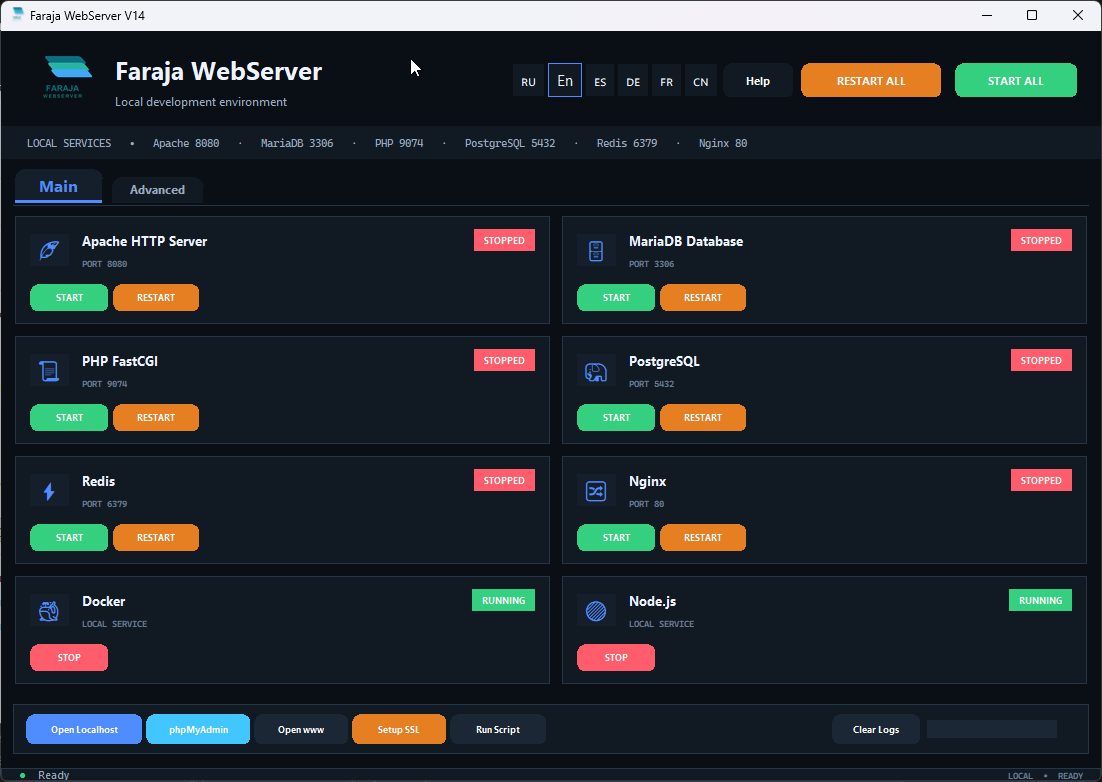
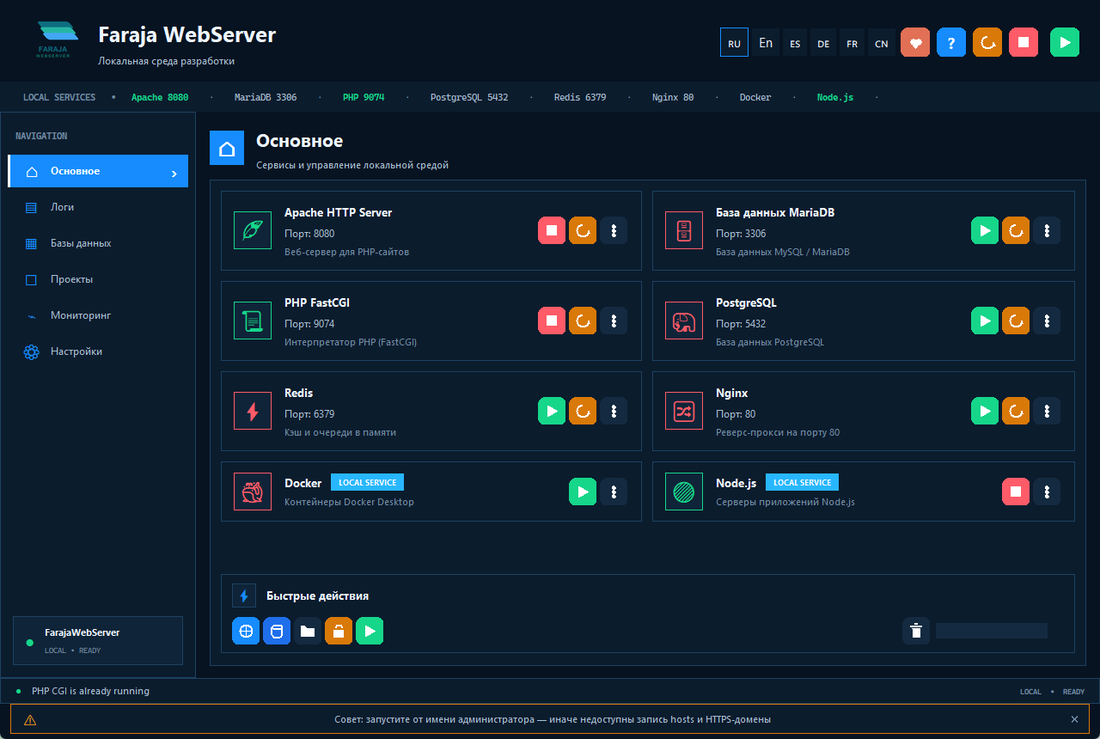
Fresh V16 screenshots (main/docker/node/db/health/settings) on site + README

diff --git a/docs/index.html b/docs/index.html
@@ -94,11 +94,12 @@ footer a{color:var(--accent);text-decoration:none}
 <div class="wrap"><section id="shots">
 <h2 data-i18n="shots_h">Скриншоты</h2><p class="sub" data-i18n="shots_sub">Так выглядит Faraja WebServer</p>
 <div class="shots">
-<figure><img src="screenshots/01-main.png" alt="main" loading="lazy"><figcaption data-i18n="cap1">Главная — карточки сервисов</figcaption></figure>
-<figure><img src="screenshots/02-logs.png" alt="logs" loading="lazy"><figcaption data-i18n="cap2">Логи установки и работы</figcaption></figure>
-<figure><img src="screenshots/03-settings.png" alt="settings" loading="lazy"><figcaption data-i18n="cap3">Модули, шрифт логов, установка</figcaption></figure>
-<figure><img src="screenshots/04-help.png" alt="help" loading="lazy"><figcaption data-i18n="cap4">Встроенная пошаговая помощь</figcaption></figure>
-<figure><img src="screenshots/05-tray.png" alt="tray" loading="lazy"><figcaption data-i18n="cap5">Меню системного трея</figcaption></figure>
+<figure><img src="screenshots/01-main.png" alt="main" loading="lazy"><figcaption data-i18n="cap1"></figcaption></figure>
+<figure><img src="screenshots/02-docker.png" alt="docker" loading="lazy"><figcaption data-i18n="cap2"></figcaption></figure>
+<figure><img src="screenshots/03-node.png" alt="node" loading="lazy"><figcaption data-i18n="cap3"></figcaption></figure>
+<figure><img src="screenshots/04-db.png" alt="db" loading="lazy"><figcaption data-i18n="cap4"></figcaption></figure>
+<figure><img src="screenshots/05-health.png" alt="health" loading="lazy"><figcaption data-i18n="cap5"></figcaption></figure>
+<figure><img src="screenshots/06-settings.png" alt="settings" loading="lazy"><figcaption data-i18n="cap6"></figcaption></figure>
 </div></section>
 
 <section id="features">
@@ -168,12 +169,12 @@ footer a{color:var(--accent);text-decoration:none}
 
 <script>
 const I18N={
-ru:{nav_shots:"Скриншоты",nav_feat:"Возможности",nav_svc:"Сервисы",nav_start:"Старт",nav_faq:"FAQ",nav_don:"Донаты",hero_a:"Локальный веб-сервер",hero_b:"за 5 минут",meaning:"«Faraja» на языке суахили означает «Комфорт»",hero_sub:"Apache, MariaDB, PHP, PostgreSQL, Redis, Nginx, Node.js, Docker и SSL — всё в одном portable EXE. Ничего не ставится в систему.",btn_dl:"⬇ Скачать для Windows",ver:"Windows 10/11 · ~20 МБ · бесплатно · Apache-2.0",shots_h:"Скриншоты",shots_sub:"Так выглядит Faraja WebServer",cap1:"Главная — карточки сервисов",cap2:"Логи установки и работы",cap3:"Модули, шрифт логов, установка",cap4:"Встроенная пошаговая помощь",cap5:"Меню системного трея",feat_h:"Возможности",feat_sub:"Полноценная среда разработки из одного файла",f1h:"Всё в одном окне",f1p:"Карточки сервисов с кнопками Старт / Стоп / Рестарт, общий запуск одной кнопкой, трей.",f2h:"Базы данных",f2p:"MariaDB + PostgreSQL, встроенный SQL-редактор и phpMyAdmin из коробки.",f3h:"Локальный HTTPS",f3p:"Доверенный SSL-сертификат для localhost в один клик (mkcert).",f4h:"Мультисайты",f4p:"Добавляйте сайты, открывайте их в браузере одной кнопкой.",f5h:"Редактор кода",f5p:"Подсветка PHP, HTML, CSS, JS, TS, Python, 8 тем, мини-карта кода.",f6h:"6 языков",f6p:"Русский, English, Español, Deutsch, Français, 中文 — переключение флажками.",svc_h:"Сервисы и порты",svc_sub:"Порты меняются в config/server.json",th1:"Сервис",th2:"Назначение",th3:"Порт",p_apache:"Веб-сервер (HTTP)",p_maria:"База данных (root без пароля)",p_php:"Серверный язык, FastCGI",p_pg:"Продвинутая СУБД",p_redis:"Хранилище в памяти",p_nginx:"Обратный прокси",p_node:"JS / TS скрипты",p_dock:"Статус и контейнеры",start_h:"Быстрый старт",start_sub:"От скачивания до своего сайта — пять шагов",s1:"<b>Скачайте и запустите</b> <code>FarajaWebServer.exe</code>. При первом запуске отметьте нужные компоненты и нажмите «Установить».",s2:"<b>Нажмите «ЗАПУСТИТЬ ВСЕ»</b> — все бейджи сервисов станут зелёными.",s3:"<b>Откройте</b> <code>http://127.0.0.1:8080/</code> в браузере — стартовая страница.",s4:"<b>Положите проект в папку</b> <code>www/</code> — он доступен по адресу <code>http://127.0.0.1:8080/mysite/</code>.",s5:"<b>Базы данных</b> — вкладка SQL (root без пароля) или кнопка phpMyAdmin.",faq_h:"Вопросы и ответы",faq_sub:"Типовые ситуации",q1:"Порт занят — что делать?",a1:"Ошибка назовёт процесс и PID. Закройте чужую программу либо смените порт в config/server.json.",q2:"PHP-страница пустая?",a2:"Убедитесь, что запущены и Apache, и PHP. Подробности — во вкладках ошибок.",q3:"Нужен HTTPS?",a3:"Нажмите «Настроить SSL», перезапустите Nginx — сайт откроется по https://localhost/ без предупреждений.",q4:"Куда класть свои файлы?",a4:"В папку www/ рядом с программой. Каждую подпапку можно оформить как сайт.",q5:"Это бесплатно?",a5:"Да. Лицензия Apache-2.0 — используйте и изменяйте свободно.",don_h:"Поддержать проект",don_sub:"Если Faraja WebServer полезен — поддержите разработку. Спасибо!",copy:"Копировать",copied:"Скопировано ✓",foot:"Faraja WebServer · Лицензия Apache-2.0",foot_dl:"Скачать",nav_pro:"PRO",btn_pro:"⬇ PRO-версия",pro_h:"PRO-версия",pro_sub:"Расширенные возможности PRO-сборки",pro1:"Сайт → Nginx-блок + Apache VirtualHost + hosts + SSL.",pro2:"Серверы проектов с роутами и трекингом процессов.",pro3h:"Версии",pro3:"PHP 8.2–8.4, Node.js 20–24, Python 3.11–3.13.",pro4h:"Менеджер БД",pro4:"Бэкапы, пользователи, восстановление.",pro5:"Compose, образы, сети, тома.",pro6h:"Нагрузка",pro6:"Тесты отдельным процессом, Auto, графики."},
-en:{nav_shots:"Screenshots",nav_feat:"Features",nav_svc:"Services",nav_start:"Start",nav_faq:"FAQ",nav_don:"Donate",hero_a:"Local web server",hero_b:"in 5 minutes",meaning:"“Faraja” means “Comfort” in Swahili",hero_sub:"Apache, MariaDB, PHP, PostgreSQL, Redis, Nginx, Node.js, Docker and SSL — all in one portable EXE. Nothing is installed into the system.",btn_dl:"⬇ Download for Windows",ver:"Windows 10/11 · ~20 MB · free · Apache-2.0",shots_h:"Screenshots",shots_sub:"This is what Faraja WebServer looks like",cap1:"Main — service cards",cap2:"Install and runtime logs",cap3:"Modules, log font, installation",cap4:"Built-in step-by-step help",cap5:"System tray menu",feat_h:"Features",feat_sub:"A full dev environment from a single file",f1h:"Everything in one window",f1p:"Service cards with Start / Stop / Restart, one-click launch of everything, tray.",f2h:"Databases",f2p:"MariaDB + PostgreSQL, built-in SQL editor and phpMyAdmin out of the box.",f3h:"Local HTTPS",f3p:"Trusted SSL certificate for localhost in one click (mkcert).",f4h:"Multi-site",f4p:"Add sites and open them in the browser with one click.",f5h:"Code editor",f5p:"PHP, HTML, CSS, JS, TS, Python highlighting, 8 themes, code minimap.",f6h:"6 languages",f6p:"Русский, English, Español, Deutsch, Français, 中文 — switch with flags.",svc_h:"Services and ports",svc_sub:"Ports are changed in config/server.json",th1:"Service",th2:"Purpose",th3:"Port",p_apache:"Web server (HTTP)",p_maria:"Database (root, no password)",p_php:"Server language, FastCGI",p_pg:"Advanced DBMS",p_redis:"In-memory store",p_nginx:"Reverse proxy",p_node:"JS / TS scripts",p_dock:"Status and containers",start_h:"Quick start",start_sub:"From download to your site in five steps",s1:"<b>Download and run</b> <code>FarajaWebServer.exe</code>. On first launch tick the components and press “Install”.",s2:"<b>Press “START ALL”</b> — all service badges turn green.",s3:"<b>Open</b> <code>http://127.0.0.1:8080/</code> in your browser — the welcome page.",s4:"<b>Put your project into</b> <code>www/</code> — it is served at <code>http://127.0.0.1:8080/mysite/</code>.",s5:"<b>Databases</b> — the SQL tab (root, no password) or the phpMyAdmin button.",faq_h:"FAQ",faq_sub:"Common situations",q1:"Port is busy — what to do?",a1:"The error names the process and PID. Close that program or change the port in config/server.json.",q2:"Blank PHP page?",a2:"Make sure both Apache and PHP are running. Details are in the error tabs.",q3:"Need HTTPS?",a3:"Press “Setup SSL”, restart Nginx — the site opens at https://localhost/ with no warnings.",q4:"Where to put my files?",a4:"Into the www/ folder next to the program. Any subfolder can become a site.",q5:"Is it free?",a5:"Yes. Apache-2.0 license — use and modify freely.",don_h:"Support the project",don_sub:"If Faraja WebServer is useful — please support its development. Thank you!",copy:"Copy",copied:"Copied ✓",foot:"Faraja WebServer · Apache-2.0 License",foot_dl:"Download",nav_pro:"PRO",btn_pro:"⬇ PRO build",pro_h:"PRO edition",pro_sub:"Advanced features of the PRO build",pro1:"Site → Nginx block + Apache VirtualHost + hosts + SSL.",pro2:"Project servers with routes and process tracking.",pro3h:"Versions",pro3:"PHP 8.2–8.4, Node.js 20–24, Python 3.11–3.13.",pro4h:"DB manager",pro4:"Backups, users, restore.",pro5:"Compose, images, networks, volumes.",pro6h:"Load",pro6:"Separate-process tests, Auto, charts."},
-es:{nav_shots:"Capturas",nav_feat:"Funciones",nav_svc:"Servicios",nav_start:"Inicio",nav_faq:"FAQ",nav_don:"Donar",hero_a:"Servidor web local",hero_b:"en 5 minutos",meaning:"«Faraja» significa «Comodidad» en suajili",hero_sub:"Apache, MariaDB, PHP, PostgreSQL, Redis, Nginx, Node.js, Docker y SSL — todo en un solo EXE portable. Nada se instala en el sistema.",btn_dl:"⬇ Descargar para Windows",ver:"Windows 10/11 · ~20 MB · gratis · Apache-2.0",shots_h:"Capturas",shots_sub:"Así es Faraja WebServer",cap1:"Principal — tarjetas de servicios",cap2:"Registros de instalación",cap3:"Módulos y ajustes",cap4:"Ayuda paso a paso",cap5:"Menú de la bandeja",feat_h:"Funciones",feat_sub:"Un entorno completo en un solo archivo",f1h:"Todo en una ventana",f1p:"Tarjetas con Iniciar / Detener / Reiniciar, inicio total con un clic, bandeja.",f2h:"Bases de datos",f2p:"MariaDB + PostgreSQL, editor SQL y phpMyAdmin incluidos.",f3h:"HTTPS local",f3p:"Certificado SSL de confianza para localhost en un clic (mkcert).",f4h:"Multisitio",f4p:"Agregue sitios y ábralos en el navegador con un clic.",f5h:"Editor de código",f5p:"Resaltado PHP, HTML, CSS, JS, TS, Python, 8 temas, minimapa.",f6h:"6 idiomas",f6p:"Русский, English, Español, Deutsch, Français, 中文 — con banderas.",svc_h:"Servicios y puertos",svc_sub:"Los puertos se cambian en config/server.json",th1:"Servicio",th2:"Propósito",th3:"Puerto",p_apache:"Servidor web (HTTP)",p_maria:"Base de datos (root sin clave)",p_php:"Lenguaje de servidor, FastCGI",p_pg:"SGBD avanzado",p_redis:"Almacén en memoria",p_nginx:"Proxy inverso",p_node:"Scripts JS / TS",p_dock:"Estado y contenedores",start_h:"Inicio rápido",start_sub:"De la descarga a su sitio en cinco pasos",s1:"<b>Descargue y ejecute</b> <code>FarajaWebServer.exe</code>. Marque componentes y pulse «Instalar».",s2:"<b>Pulse «INICIAR TODO»</b> — todo en verde.",s3:"<b>Abra</b> <code>http://127.0.0.1:8080/</code> en el navegador.",s4:"<b>Copie su proyecto a</b> <code>www/</code> — disponible en <code>http://127.0.0.1:8080/mysite/</code>.",s5:"<b>Bases de datos</b> — pestaña SQL (root sin clave) o phpMyAdmin.",faq_h:"Preguntas",faq_sub:"Situaciones típicas",q1:"¿Puerto ocupado?",a1:"El error indica el proceso y el PID. Cierre ese programa o cambie el puerto.",q2:"¿Página PHP en blanco?",a2:"Verifique que Apache y PHP estén en ejecución.",q3:"¿Necesita HTTPS?",a3:"Pulse «Configurar SSL», reinicie Nginx — https://localhost/ sin avisos.",q4:"¿Dónde pongo mis archivos?",a4:"En la carpeta www/ junto al programa.",q5:"¿Es gratis?",a5:"Sí. Licencia Apache-2.0 — úselo libremente.",don_h:"Apoyar el proyecto",don_sub:"Si Faraja WebServer le es útil — apoye su desarrollo. ¡Gracias!",copy:"Copiar",copied:"Copiado ✓",foot:"Faraja WebServer · Licencia Apache-2.0",foot_dl:"Descargar",nav_pro:"PRO",btn_pro:"⬇ Edición PRO",pro_h:"Edición PRO",pro_sub:"Funciones avanzadas de la edición PRO",pro1:"Sitio → bloque Nginx + VirtualHost Apache + hosts + SSL.",pro2:"Servidores de proyectos con rutas y seguimiento.",pro3h:"Versiones",pro3:"PHP 8.2–8.4, Node.js 20–24, Python 3.11–3.13.",pro4h:"Gestor BD",pro4:"Respaldos, usuarios, restauración.",pro5:"Compose, imágenes, redes, volúmenes.",pro6h:"Carga",pro6:"Pruebas en proceso aparte, Auto, gráficos."},
-de:{nav_shots:"Bilder",nav_feat:"Funktionen",nav_svc:"Dienste",nav_start:"Start",nav_faq:"FAQ",nav_don:"Spenden",hero_a:"Lokaler Webserver",hero_b:"in 5 Minuten",meaning:"„Faraja“ bedeutet auf Swahili „Komfort“",hero_sub:"Apache, MariaDB, PHP, PostgreSQL, Redis, Nginx, Node.js, Docker und SSL — alles in einer portablen EXE. Nichts wird installiert.",btn_dl:"⬇ Für Windows laden",ver:"Windows 10/11 · ~20 MB · kostenlos · Apache-2.0",shots_h:"Bilder",shots_sub:"So sieht Faraja WebServer aus",cap1:"Haupt — Dienst-Karten",cap2:"Installations-Logs",cap3:"Module und Einstellungen",cap4:"Schritt-für-Schritt-Hilfe",cap5:"Taskleisten-Menü",feat_h:"Funktionen",feat_sub:"Komplette Umgebung aus einer Datei",f1h:"Alles in einem Fenster",f1p:"Dienst-Karten mit Starten / Stoppen / Neustart, Ein-Klick-Start, Tray.",f2h:"Datenbanken",f2p:"MariaDB + PostgreSQL, SQL-Editor und phpMyAdmin an Bord.",f3h:"Lokales HTTPS",f3p:"Vertrauenswürdiges SSL-Zertifikat für localhost mit einem Klick (mkcert).",f4h:"Multisite",f4p:"Sites hinzufügen und mit einem Klick im Browser öffnen.",f5h:"Code-Editor",f5p:"Highlighting für PHP, HTML, CSS, JS, TS, Python, 8 Themes, Minimap.",f6h:"6 Sprachen",f6p:"Русский, English, Español, Deutsch, Français, 中文 — per Flaggen.",svc_h:"Dienste und Ports",svc_sub:"Ports in config/server.json ändern",th1:"Dienst",th2:"Zweck",th3:"Port",p_apache:"Webserver (HTTP)",p_maria:"Datenbank (root ohne Passwort)",p_php:"Serversprache, FastCGI",p_pg:"Erweitertes DBMS",p_redis:"In-Memory-Speicher",p_nginx:"Reverse-Proxy",p_node:"JS- / TS-Skripte",p_dock:"Status und Container",start_h:"Schnellstart",start_sub:"Vom Download zur eigenen Seite in fünf Schritten",s1:"<b>Laden und starten Sie</b> <code>FarajaWebServer.exe</code>. Komponenten wählen, «Installieren».",s2:"<b>«ALLE STARTEN» drücken</b> — alles wird grün.",s3:"<b>Öffnen Sie</b> <code>http://127.0.0.1:8080/</code> im Browser.",s4:"<b>Projekt nach</b> <code>www/</code> kopieren — erreichbar unter <code>http://127.0.0.1:8080/mysite/</code>.",s5:"<b>Datenbanken</b> — SQL-Reiter (root ohne Passwort) oder phpMyAdmin.",faq_h:"Fragen",faq_sub:"Typische Situationen",q1:"Port belegt?",a1:"Der Fehler nennt Prozess und PID. Fremdes Programm schließen oder Port ändern.",q2:"Leere PHP-Seite?",a2:"Apache und PHP müssen beide laufen.",q3:"HTTPS nötig?",a3:"«SSL einrichten», Nginx neu starten — https://localhost/ ohne Warnungen.",q4:"Wohin mit Dateien?",a4:"In den Ordner www/ neben dem Programm.",q5:"Kostenlos?",a5:"Ja. Apache-2.0-Lizenz — frei verwenden.",don_h:"Projekt unterstützen",don_sub:"Wenn Faraja WebServer nützt — bitte die Entwicklung unterstützen. Danke!",copy:"Kopieren",copied:"Kopiert ✓",foot:"Faraja WebServer · Apache-2.0-Lizenz",foot_dl:"Laden",nav_pro:"PRO",btn_pro:"⬇ PRO-Edition",pro_h:"PRO-Edition",pro_sub:"Erweiterte Funktionen der PRO-Edition",pro1:"Site → Nginx-Block + Apache VirtualHost + Hosts + SSL.",pro2:"Projekt-Server mit Routen und Tracking.",pro3h:"Versionen",pro3:"PHP 8.2–8.4, Node.js 20–24, Python 3.11–3.13.",pro4h:"DB-Manager",pro4:"Backups, Benutzer, Restore.",pro5:"Compose, Images, Netzwerke, Volumes.",pro6h:"Last",pro6:"Tests in eigenem Prozess, Auto, Charts."},
-fr:{nav_shots:"Captures",nav_feat:"Fonctions",nav_svc:"Services",nav_start:"Départ",nav_faq:"FAQ",nav_don:"Soutenir",hero_a:"Serveur web local",hero_b:"en 5 minutes",meaning:"« Faraja » signifie « Confort » en swahili",hero_sub:"Apache, MariaDB, PHP, PostgreSQL, Redis, Nginx, Node.js, Docker et SSL — le tout dans un seul EXE portable. Rien n'est installé.",btn_dl:"⬇ Télécharger pour Windows",ver:"Windows 10/11 · ~20 Mo · gratuit · Apache-2.0",shots_h:"Captures",shots_sub:"Voici Faraja WebServer",cap1:"Principal — cartes des services",cap2:"Journaux d'installation",cap3:"Modules et paramètres",cap4:"Aide pas à pas",cap5:"Menu de la zone de notification",feat_h:"Fonctions",feat_sub:"Un environnement complet en un fichier",f1h:"Tout dans une fenêtre",f1p:"Cartes avec Démarrer / Arrêter / Redémarrer, lancement global en un clic.",f2h:"Bases de données",f2p:"MariaDB + PostgreSQL, éditeur SQL et phpMyAdmin inclus.",f3h:"HTTPS local",f3p:"Certificat SSL de confiance pour localhost en un clic (mkcert).",f4h:"Multisite",f4p:"Ajoutez des sites, ouvrez-les en un clic.",f5h:"Éditeur de code",f5p:"Coloration PHP, HTML, CSS, JS, TS, Python, 8 thèmes, minimap.",f6h:"6 langues",f6p:"Русский, English, Español, Deutsch, Français, 中文 — par drapeaux.",svc_h:"Services et ports",svc_sub:"Ports modifiables dans config/server.json",th1:"Service",th2:"Rôle",th3:"Port",p_apache:"Serveur web (HTTP)",p_maria:"Base de données (root sans mot de passe)",p_php:"Langage serveur, FastCGI",p_pg:"SGBD avancé",p_redis:"Stockage en mémoire",p_nginx:"Proxy inverse",p_node:"Scripts JS / TS",p_dock:"Statut et conteneurs",start_h:"Démarrage rapide",start_sub:"Du téléchargement au site en cinq étapes",s1:"<b>Téléchargez et lancez</b> <code>FarajaWebServer.exe</code>. Cochez les composants, « Installer ».",s2:"<b>Cliquez « TOUT DÉMARRER »</b> — tout passe au vert.",s3:"<b>Ouvrez</b> <code>http://127.0.0.1:8080/</code> dans le navigateur.",s4:"<b>Copiez votre projet dans</b> <code>www/</code> — servi sur <code>http://127.0.0.1:8080/monsite/</code>.",s5:"<b>Bases de données</b> — onglet SQL (root sans mot de passe) ou phpMyAdmin.",faq_h:"Questions",faq_sub:"Situations courantes",q1:"Port occupé ?",a1:"L'erreur nomme le processus et le PID. Fermez-le ou changez le port.",q2:"Page PHP vide ?",a2:"Apache et PHP doivent tous deux tourner.",q3:"HTTPS requis ?",a3:"« Configurer SSL », redémarrez Nginx — https://localhost/ sans alertes.",q4:"Où mettre mes fichiers ?",a4:"Dans le dossier www/ à côté du programme.",q5:"Gratuit ?",a5:"Oui. Licence Apache-2.0 — usage libre.",don_h:"Soutenir le projet",don_sub:"Si Faraja WebServer vous est utile — soutenez son développement. Merci !",copy:"Copier",copied:"Copié ✓",foot:"Faraja WebServer · Licence Apache-2.0",foot_dl:"Télécharger",nav_pro:"PRO",btn_pro:"⬇ Édition PRO",pro_h:"Édition PRO",pro_sub:"Fonctions avancées de l'édition PRO",pro1:"Site → bloc Nginx + VirtualHost Apache + hosts + SSL.",pro2:"Serveurs de projets avec routes et suivi.",pro3h:"Versions",pro3:"PHP 8.2–8.4, Node.js 20–24, Python 3.11–3.13.",pro4h:"Gestion BD",pro4:"Sauvegardes, utilisateurs, restauration.",pro5:"Compose, images, réseaux, volumes.",pro6h:"Charge",pro6:"Tests en processus séparé, Auto, graphiques."},
-zh:{nav_shots:"截图",nav_feat:"功能",nav_svc:"服务",nav_start:"入门",nav_faq:"问答",nav_don:"捐赠",hero_a:"本地 Web 服务器",hero_b:"5 分钟搞定",meaning:"“Faraja”在斯瓦希里语中意为“舒适”",hero_sub:"Apache、MariaDB、PHP、PostgreSQL、Redis、Nginx、Node.js、Docker 和 SSL——集于单个便携 EXE。系统零安装。",btn_dl:"⬇ 下载 Windows 版",ver:"Windows 10/11 · 约 20 MB · 免费 · Apache-2.0",shots_h:"截图",shots_sub:"Faraja WebServer 的样子",cap1:"主页——服务卡片",cap2:"安装与运行日志",cap3:"模块、日志字体、安装",cap4:"内置分步帮助",cap5:"系统托盘菜单",feat_h:"功能",feat_sub:"单个文件，完整开发环境",f1h:"一窗搞定",f1p:"服务卡片含启动 / 停止 / 重启，一键启动全部，托盘。",f2h:"数据库",f2p:"MariaDB + PostgreSQL，内置 SQL 编辑器和 phpMyAdmin。",f3h:"本地 HTTPS",f3p:"一键获取受信任的 localhost SSL 证书（mkcert）。",f4h:"多站点",f4p:"添加站点，一键在浏览器中打开。",f5h:"代码编辑器",f5p:"PHP、HTML、CSS、JS、TS、Python 高亮，8 套主题，代码小地图。",f6h:"6 种语言",f6p:"Русский、English、Español、Deutsch、Français、中文——旗帜切换。",svc_h:"服务与端口",svc_sub:"端口可在 config/server.json 中修改",th1:"服务",th2:"用途",th3:"端口",p_apache:"Web 服务器（HTTP）",p_maria:"数据库（root，无密码）",p_php:"服务端语言，FastCGI",p_pg:"高级数据库",p_redis:"内存存储",p_nginx:"反向代理",p_node:"JS / TS 脚本",p_dock:"状态与容器",start_h:"快速入门",start_sub:"五步从下载到自己的站点",s1:"<b>下载并运行</b> <code>FarajaWebServer.exe</code>。首次启动勾选组件并点击“安装”。",s2:"<b>点击“全部启动”</b>——所有徽章变绿。",s3:"<b>在浏览器中打开</b> <code>http://127.0.0.1:8080/</code>——欢迎页。",s4:"<b>将项目放入</b> <code>www/</code>——通过 <code>http://127.0.0.1:8080/mysite/</code> 访问。",s5:"<b>数据库</b>——SQL 选项卡（root 无密码）或 phpMyAdmin。",faq_h:"问答",faq_sub:"常见情况",q1:"端口被占用？",a1:"错误会显示进程名和 PID。关闭该程序或修改端口。",q2:"PHP 页面空白？",a2:"确认 Apache 和 PHP 都在运行。",q3:"需要 HTTPS？",a3:"点击“设置 SSL”，重启 Nginx——https://localhost/ 无警告。",q4:"文件放哪里？",a4:"放在程序旁的 www/ 文件夹中。",q5:"免费吗？",a5:"是。Apache-2.0 许可证——自由使用。",don_h:"支持项目",don_sub:"如果 Faraja WebServer 对您有用，请支持它的开发。谢谢！",copy:"复制",copied:"已复制 ✓",foot:"Faraja WebServer · Apache-2.0 许可证",foot_dl:"下载",nav_pro:"PRO",btn_pro:"⬇ PRO 版本",pro_h:"PRO 版本",pro_sub:"PRO 构建的高级功能",pro1:"站点 → Nginx 块 + Apache 虚拟主机 + hosts + SSL。",pro2:"带路由和进程跟踪的项目服务器。",pro3h:"版本",pro3:"PHP 8.2–8.4、Node.js 20–24、Python 3.11–3.13。",pro4h:"数据库管理",pro4:"备份、用户、恢复。",pro5:"Compose、镜像、网络、卷。",pro6h:"负载",pro6:"独立进程测试、Auto、图表。"}};
+ru:{nav_shots:"Скриншоты",nav_feat:"Возможности",nav_svc:"Сервисы",nav_start:"Старт",nav_faq:"FAQ",nav_don:"Донаты",hero_a:"Локальный веб-сервер",hero_b:"за 5 минут",meaning:"«Faraja» на языке суахили означает «Комфорт»",hero_sub:"Apache, MariaDB, PHP, PostgreSQL, Redis, Nginx, Node.js, Docker и SSL — всё в одном portable EXE. Ничего не ставится в систему.",btn_dl:"⬇ Скачать для Windows",ver:"Windows 10/11 · ~36 МБ · бесплатно · Apache-2.0",shots_h:"Скриншоты",shots_sub:"Так выглядит Faraja WebServer",cap1:"Главная — карточки сервисов",cap2:"Docker — контейнеры",cap3:"Серверы Node.js",cap4:"Базы данных",cap5:"Диагностика",cap6:"Настройки",feat_h:"Возможности",feat_sub:"Полноценная среда разработки из одного файла",f1h:"Всё в одном окне",f1p:"Карточки сервисов с кнопками Старт / Стоп / Рестарт, общий запуск одной кнопкой, трей.",f2h:"Базы данных",f2p:"MariaDB + PostgreSQL, встроенный SQL-редактор и phpMyAdmin из коробки.",f3h:"Локальный HTTPS",f3p:"Доверенный SSL-сертификат для localhost в один клик (mkcert).",f4h:"Мультисайты",f4p:"Добавляйте сайты, открывайте их в браузере одной кнопкой.",f5h:"Редактор кода",f5p:"Подсветка PHP, HTML, CSS, JS, TS, Python, 8 тем, мини-карта кода.",f6h:"6 языков",f6p:"Русский, English, Español, Deutsch, Français, 中文 — переключение флажками.",svc_h:"Сервисы и порты",svc_sub:"Порты меняются в config/server.json",th1:"Сервис",th2:"Назначение",th3:"Порт",p_apache:"Веб-сервер (HTTP)",p_maria:"База данных (root без пароля)",p_php:"Серверный язык, FastCGI",p_pg:"Продвинутая СУБД",p_redis:"Хранилище в памяти",p_nginx:"Обратный прокси",p_node:"JS / TS скрипты",p_dock:"Статус и контейнеры",start_h:"Быстрый старт",start_sub:"От скачивания до своего сайта — пять шагов",s1:"<b>Скачайте и запустите</b> <code>FarajaWebServer.exe</code>. При первом запуске отметьте нужные компоненты и нажмите «Установить».",s2:"<b>Нажмите «ЗАПУСТИТЬ ВСЕ»</b> — все бейджи сервисов станут зелёными.",s3:"<b>Откройте</b> <code>http://127.0.0.1:8080/</code> в браузере — стартовая страница.",s4:"<b>Положите проект в папку</b> <code>www/</code> — он доступен по адресу <code>http://127.0.0.1:8080/mysite/</code>.",s5:"<b>Базы данных</b> — вкладка SQL (root без пароля) или кнопка phpMyAdmin.",faq_h:"Вопросы и ответы",faq_sub:"Типовые ситуации",q1:"Порт занят — что делать?",a1:"Ошибка назовёт процесс и PID. Закройте чужую программу либо смените порт в config/server.json.",q2:"PHP-страница пустая?",a2:"Убедитесь, что запущены и Apache, и PHP. Подробности — во вкладках ошибок.",q3:"Нужен HTTPS?",a3:"Нажмите «Настроить SSL», перезапустите Nginx — сайт откроется по https://localhost/ без предупреждений.",q4:"Куда класть свои файлы?",a4:"В папку www/ рядом с программой. Каждую подпапку можно оформить как сайт.",q5:"Это бесплатно?",a5:"Да. Лицензия Apache-2.0 — используйте и изменяйте свободно.",don_h:"Поддержать проект",don_sub:"Если Faraja WebServer полезен — поддержите разработку. Спасибо!",copy:"Копировать",copied:"Скопировано ✓",foot:"Faraja WebServer · Лицензия Apache-2.0",foot_dl:"Скачать",nav_pro:"PRO",btn_pro:"⬇ PRO-версия",pro_h:"PRO-версия",pro_sub:"Расширенные возможности PRO-сборки",pro1:"Сайт → Nginx-блок + Apache VirtualHost + hosts + SSL.",pro2:"Серверы проектов с роутами и трекингом процессов.",pro3h:"Версии",pro3:"PHP 8.2–8.4, Node.js 20–24, Python 3.11–3.13.",pro4h:"Менеджер БД",pro4:"Бэкапы, пользователи, восстановление.",pro5:"Compose, образы, сети, тома.",pro6h:"Нагрузка",pro6:"Тесты отдельным процессом, Auto, графики."},
+en:{nav_shots:"Screenshots",nav_feat:"Features",nav_svc:"Services",nav_start:"Start",nav_faq:"FAQ",nav_don:"Donate",hero_a:"Local web server",hero_b:"in 5 minutes",meaning:"“Faraja” means “Comfort” in Swahili",hero_sub:"Apache, MariaDB, PHP, PostgreSQL, Redis, Nginx, Node.js, Docker and SSL — all in one portable EXE. Nothing is installed into the system.",btn_dl:"⬇ Download for Windows",ver:"Windows 10/11 · ~36 MB · free · Apache-2.0",shots_h:"Screenshots",shots_sub:"This is what Faraja WebServer looks like",cap1:"Main — service cards",cap2:"Docker — containers",cap3:"Node.js servers",cap4:"Databases",cap5:"Health diagnostics",cap6:"Settings",feat_h:"Features",feat_sub:"A full dev environment from a single file",f1h:"Everything in one window",f1p:"Service cards with Start / Stop / Restart, one-click launch of everything, tray.",f2h:"Databases",f2p:"MariaDB + PostgreSQL, built-in SQL editor and phpMyAdmin out of the box.",f3h:"Local HTTPS",f3p:"Trusted SSL certificate for localhost in one click (mkcert).",f4h:"Multi-site",f4p:"Add sites and open them in the browser with one click.",f5h:"Code editor",f5p:"PHP, HTML, CSS, JS, TS, Python highlighting, 8 themes, code minimap.",f6h:"6 languages",f6p:"Русский, English, Español, Deutsch, Français, 中文 — switch with flags.",svc_h:"Services and ports",svc_sub:"Ports are changed in config/server.json",th1:"Service",th2:"Purpose",th3:"Port",p_apache:"Web server (HTTP)",p_maria:"Database (root, no password)",p_php:"Server language, FastCGI",p_pg:"Advanced DBMS",p_redis:"In-memory store",p_nginx:"Reverse proxy",p_node:"JS / TS scripts",p_dock:"Status and containers",start_h:"Quick start",start_sub:"From download to your site in five steps",s1:"<b>Download and run</b> <code>FarajaWebServer.exe</code>. On first launch tick the components and press “Install”.",s2:"<b>Press “START ALL”</b> — all service badges turn green.",s3:"<b>Open</b> <code>http://127.0.0.1:8080/</code> in your browser — the welcome page.",s4:"<b>Put your project into</b> <code>www/</code> — it is served at <code>http://127.0.0.1:8080/mysite/</code>.",s5:"<b>Databases</b> — the SQL tab (root, no password) or the phpMyAdmin button.",faq_h:"FAQ",faq_sub:"Common situations",q1:"Port is busy — what to do?",a1:"The error names the process and PID. Close that program or change the port in config/server.json.",q2:"Blank PHP page?",a2:"Make sure both Apache and PHP are running. Details are in the error tabs.",q3:"Need HTTPS?",a3:"Press “Setup SSL”, restart Nginx — the site opens at https://localhost/ with no warnings.",q4:"Where to put my files?",a4:"Into the www/ folder next to the program. Any subfolder can become a site.",q5:"Is it free?",a5:"Yes. Apache-2.0 license — use and modify freely.",don_h:"Support the project",don_sub:"If Faraja WebServer is useful — please support its development. Thank you!",copy:"Copy",copied:"Copied ✓",foot:"Faraja WebServer · Apache-2.0 License",foot_dl:"Download",nav_pro:"PRO",btn_pro:"⬇ PRO build",pro_h:"PRO edition",pro_sub:"Advanced features of the PRO build",pro1:"Site → Nginx block + Apache VirtualHost + hosts + SSL.",pro2:"Project servers with routes and process tracking.",pro3h:"Versions",pro3:"PHP 8.2–8.4, Node.js 20–24, Python 3.11–3.13.",pro4h:"DB manager",pro4:"Backups, users, restore.",pro5:"Compose, images, networks, volumes.",pro6h:"Load",pro6:"Separate-process tests, Auto, charts."},
+es:{nav_shots:"Capturas",nav_feat:"Funciones",nav_svc:"Servicios",nav_start:"Inicio",nav_faq:"FAQ",nav_don:"Donar",hero_a:"Servidor web local",hero_b:"en 5 minutos",meaning:"«Faraja» significa «Comodidad» en suajili",hero_sub:"Apache, MariaDB, PHP, PostgreSQL, Redis, Nginx, Node.js, Docker y SSL — todo en un solo EXE portable. Nada se instala en el sistema.",btn_dl:"⬇ Descargar para Windows",ver:"Windows 10/11 · ~36 MB · gratis · Apache-2.0",shots_h:"Capturas",shots_sub:"Así es Faraja WebServer",cap1:"Principal — tarjetas",cap2:"Docker — contenedores",cap3:"Servidores Node.js",cap4:"Bases de datos",cap5:"Diagnóstico",cap6:"Ajustes",feat_h:"Funciones",feat_sub:"Un entorno completo en un solo archivo",f1h:"Todo en una ventana",f1p:"Tarjetas con Iniciar / Detener / Reiniciar, inicio total con un clic, bandeja.",f2h:"Bases de datos",f2p:"MariaDB + PostgreSQL, editor SQL y phpMyAdmin incluidos.",f3h:"HTTPS local",f3p:"Certificado SSL de confianza para localhost en un clic (mkcert).",f4h:"Multisitio",f4p:"Agregue sitios y ábralos en el navegador con un clic.",f5h:"Editor de código",f5p:"Resaltado PHP, HTML, CSS, JS, TS, Python, 8 temas, minimapa.",f6h:"6 idiomas",f6p:"Русский, English, Español, Deutsch, Français, 中文 — con banderas.",svc_h:"Servicios y puertos",svc_sub:"Los puertos se cambian en config/server.json",th1:"Servicio",th2:"Propósito",th3:"Puerto",p_apache:"Servidor web (HTTP)",p_maria:"Base de datos (root sin clave)",p_php:"Lenguaje de servidor, FastCGI",p_pg:"SGBD avanzado",p_redis:"Almacén en memoria",p_nginx:"Proxy inverso",p_node:"Scripts JS / TS",p_dock:"Estado y contenedores",start_h:"Inicio rápido",start_sub:"De la descarga a su sitio en cinco pasos",s1:"<b>Descargue y ejecute</b> <code>FarajaWebServer.exe</code>. Marque componentes y pulse «Instalar».",s2:"<b>Pulse «INICIAR TODO»</b> — todo en verde.",s3:"<b>Abra</b> <code>http://127.0.0.1:8080/</code> en el navegador.",s4:"<b>Copie su proyecto a</b> <code>www/</code> — disponible en <code>http://127.0.0.1:8080/mysite/</code>.",s5:"<b>Bases de datos</b> — pestaña SQL (root sin clave) o phpMyAdmin.",faq_h:"Preguntas",faq_sub:"Situaciones típicas",q1:"¿Puerto ocupado?",a1:"El error indica el proceso y el PID. Cierre ese programa o cambie el puerto.",q2:"¿Página PHP en blanco?",a2:"Verifique que Apache y PHP estén en ejecución.",q3:"¿Necesita HTTPS?",a3:"Pulse «Configurar SSL», reinicie Nginx — https://localhost/ sin avisos.",q4:"¿Dónde pongo mis archivos?",a4:"En la carpeta www/ junto al programa.",q5:"¿Es gratis?",a5:"Sí. Licencia Apache-2.0 — úselo libremente.",don_h:"Apoyar el proyecto",don_sub:"Si Faraja WebServer le es útil — apoye su desarrollo. ¡Gracias!",copy:"Copiar",copied:"Copiado ✓",foot:"Faraja WebServer · Licencia Apache-2.0",foot_dl:"Descargar",nav_pro:"PRO",btn_pro:"⬇ Edición PRO",pro_h:"Edición PRO",pro_sub:"Funciones avanzadas de la edición PRO",pro1:"Sitio → bloque Nginx + VirtualHost Apache + hosts + SSL.",pro2:"Servidores de proyectos con rutas y seguimiento.",pro3h:"Versiones",pro3:"PHP 8.2–8.4, Node.js 20–24, Python 3.11–3.13.",pro4h:"Gestor BD",pro4:"Respaldos, usuarios, restauración.",pro5:"Compose, imágenes, redes, volúmenes.",pro6h:"Carga",pro6:"Pruebas en proceso aparte, Auto, gráficos."},
+de:{nav_shots:"Bilder",nav_feat:"Funktionen",nav_svc:"Dienste",nav_start:"Start",nav_faq:"FAQ",nav_don:"Spenden",hero_a:"Lokaler Webserver",hero_b:"in 5 Minuten",meaning:"„Faraja“ bedeutet auf Swahili „Komfort“",hero_sub:"Apache, MariaDB, PHP, PostgreSQL, Redis, Nginx, Node.js, Docker und SSL — alles in einer portablen EXE. Nichts wird installiert.",btn_dl:"⬇ Für Windows laden",ver:"Windows 10/11 · ~36 MB · kostenlos · Apache-2.0",shots_h:"Bilder",shots_sub:"So sieht Faraja WebServer aus",cap1:"Haupt — Dienst-Karten",cap2:"Docker — Container",cap3:"Node.js-Server",cap4:"Datenbanken",cap5:"Diagnose",cap6:"Einstellungen",feat_h:"Funktionen",feat_sub:"Komplette Umgebung aus einer Datei",f1h:"Alles in einem Fenster",f1p:"Dienst-Karten mit Starten / Stoppen / Neustart, Ein-Klick-Start, Tray.",f2h:"Datenbanken",f2p:"MariaDB + PostgreSQL, SQL-Editor und phpMyAdmin an Bord.",f3h:"Lokales HTTPS",f3p:"Vertrauenswürdiges SSL-Zertifikat für localhost mit einem Klick (mkcert).",f4h:"Multisite",f4p:"Sites hinzufügen und mit einem Klick im Browser öffnen.",f5h:"Code-Editor",f5p:"Highlighting für PHP, HTML, CSS, JS, TS, Python, 8 Themes, Minimap.",f6h:"6 Sprachen",f6p:"Русский, English, Español, Deutsch, Français, 中文 — per Flaggen.",svc_h:"Dienste und Ports",svc_sub:"Ports in config/server.json ändern",th1:"Dienst",th2:"Zweck",th3:"Port",p_apache:"Webserver (HTTP)",p_maria:"Datenbank (root ohne Passwort)",p_php:"Serversprache, FastCGI",p_pg:"Erweitertes DBMS",p_redis:"In-Memory-Speicher",p_nginx:"Reverse-Proxy",p_node:"JS- / TS-Skripte",p_dock:"Status und Container",start_h:"Schnellstart",start_sub:"Vom Download zur eigenen Seite in fünf Schritten",s1:"<b>Laden und starten Sie</b> <code>FarajaWebServer.exe</code>. Komponenten wählen, «Installieren».",s2:"<b>«ALLE STARTEN» drücken</b> — alles wird grün.",s3:"<b>Öffnen Sie</b> <code>http://127.0.0.1:8080/</code> im Browser.",s4:"<b>Projekt nach</b> <code>www/</code> kopieren — erreichbar unter <code>http://127.0.0.1:8080/mysite/</code>.",s5:"<b>Datenbanken</b> — SQL-Reiter (root ohne Passwort) oder phpMyAdmin.",faq_h:"Fragen",faq_sub:"Typische Situationen",q1:"Port belegt?",a1:"Der Fehler nennt Prozess und PID. Fremdes Programm schließen oder Port ändern.",q2:"Leere PHP-Seite?",a2:"Apache und PHP müssen beide laufen.",q3:"HTTPS nötig?",a3:"«SSL einrichten», Nginx neu starten — https://localhost/ ohne Warnungen.",q4:"Wohin mit Dateien?",a4:"In den Ordner www/ neben dem Programm.",q5:"Kostenlos?",a5:"Ja. Apache-2.0-Lizenz — frei verwenden.",don_h:"Projekt unterstützen",don_sub:"Wenn Faraja WebServer nützt — bitte die Entwicklung unterstützen. Danke!",copy:"Kopieren",copied:"Kopiert ✓",foot:"Faraja WebServer · Apache-2.0-Lizenz",foot_dl:"Laden",nav_pro:"PRO",btn_pro:"⬇ PRO-Edition",pro_h:"PRO-Edition",pro_sub:"Erweiterte Funktionen der PRO-Edition",pro1:"Site → Nginx-Block + Apache VirtualHost + Hosts + SSL.",pro2:"Projekt-Server mit Routen und Tracking.",pro3h:"Versionen",pro3:"PHP 8.2–8.4, Node.js 20–24, Python 3.11–3.13.",pro4h:"DB-Manager",pro4:"Backups, Benutzer, Restore.",pro5:"Compose, Images, Netzwerke, Volumes.",pro6h:"Last",pro6:"Tests in eigenem Prozess, Auto, Charts."},
+fr:{nav_shots:"Captures",nav_feat:"Fonctions",nav_svc:"Services",nav_start:"Départ",nav_faq:"FAQ",nav_don:"Soutenir",hero_a:"Serveur web local",hero_b:"en 5 minutes",meaning:"« Faraja » signifie « Confort » en swahili",hero_sub:"Apache, MariaDB, PHP, PostgreSQL, Redis, Nginx, Node.js, Docker et SSL — le tout dans un seul EXE portable. Rien n'est installé.",btn_dl:"⬇ Télécharger pour Windows",ver:"Windows 10/11 · ~36 Mo · gratuit · Apache-2.0",shots_h:"Captures",shots_sub:"Voici Faraja WebServer",cap1:"Principal — cartes",cap2:"Docker — conteneurs",cap3:"Serveurs Node.js",cap4:"Bases de données",cap5:"Diagnostic",cap6:"Paramètres",feat_h:"Fonctions",feat_sub:"Un environnement complet en un fichier",f1h:"Tout dans une fenêtre",f1p:"Cartes avec Démarrer / Arrêter / Redémarrer, lancement global en un clic.",f2h:"Bases de données",f2p:"MariaDB + PostgreSQL, éditeur SQL et phpMyAdmin inclus.",f3h:"HTTPS local",f3p:"Certificat SSL de confiance pour localhost en un clic (mkcert).",f4h:"Multisite",f4p:"Ajoutez des sites, ouvrez-les en un clic.",f5h:"Éditeur de code",f5p:"Coloration PHP, HTML, CSS, JS, TS, Python, 8 thèmes, minimap.",f6h:"6 langues",f6p:"Русский, English, Español, Deutsch, Français, 中文 — par drapeaux.",svc_h:"Services et ports",svc_sub:"Ports modifiables dans config/server.json",th1:"Service",th2:"Rôle",th3:"Port",p_apache:"Serveur web (HTTP)",p_maria:"Base de données (root sans mot de passe)",p_php:"Langage serveur, FastCGI",p_pg:"SGBD avancé",p_redis:"Stockage en mémoire",p_nginx:"Proxy inverse",p_node:"Scripts JS / TS",p_dock:"Statut et conteneurs",start_h:"Démarrage rapide",start_sub:"Du téléchargement au site en cinq étapes",s1:"<b>Téléchargez et lancez</b> <code>FarajaWebServer.exe</code>. Cochez les composants, « Installer ».",s2:"<b>Cliquez « TOUT DÉMARRER »</b> — tout passe au vert.",s3:"<b>Ouvrez</b> <code>http://127.0.0.1:8080/</code> dans le navigateur.",s4:"<b>Copiez votre projet dans</b> <code>www/</code> — servi sur <code>http://127.0.0.1:8080/monsite/</code>.",s5:"<b>Bases de données</b> — onglet SQL (root sans mot de passe) ou phpMyAdmin.",faq_h:"Questions",faq_sub:"Situations courantes",q1:"Port occupé ?",a1:"L'erreur nomme le processus et le PID. Fermez-le ou changez le port.",q2:"Page PHP vide ?",a2:"Apache et PHP doivent tous deux tourner.",q3:"HTTPS requis ?",a3:"« Configurer SSL », redémarrez Nginx — https://localhost/ sans alertes.",q4:"Où mettre mes fichiers ?",a4:"Dans le dossier www/ à côté du programme.",q5:"Gratuit ?",a5:"Oui. Licence Apache-2.0 — usage libre.",don_h:"Soutenir le projet",don_sub:"Si Faraja WebServer vous est utile — soutenez son développement. Merci !",copy:"Copier",copied:"Copié ✓",foot:"Faraja WebServer · Licence Apache-2.0",foot_dl:"Télécharger",nav_pro:"PRO",btn_pro:"⬇ Édition PRO",pro_h:"Édition PRO",pro_sub:"Fonctions avancées de l'édition PRO",pro1:"Site → bloc Nginx + VirtualHost Apache + hosts + SSL.",pro2:"Serveurs de projets avec routes et suivi.",pro3h:"Versions",pro3:"PHP 8.2–8.4, Node.js 20–24, Python 3.11–3.13.",pro4h:"Gestion BD",pro4:"Sauvegardes, utilisateurs, restauration.",pro5:"Compose, images, réseaux, volumes.",pro6h:"Charge",pro6:"Tests en processus séparé, Auto, graphiques."},
+zh:{nav_shots:"截图",nav_feat:"功能",nav_svc:"服务",nav_start:"入门",nav_faq:"问答",nav_don:"捐赠",hero_a:"本地 Web 服务器",hero_b:"5 分钟搞定",meaning:"“Faraja”在斯瓦希里语中意为“舒适”",hero_sub:"Apache、MariaDB、PHP、PostgreSQL、Redis、Nginx、Node.js、Docker 和 SSL——集于单个便携 EXE。系统零安装。",btn_dl:"⬇ 下载 Windows 版",ver:"Windows 10/11 · 约 36 MB · 免费 · Apache-2.0",shots_h:"截图",shots_sub:"Faraja WebServer 的样子",cap1:"主页—服务卡片",cap2:"Docker—容器",cap3:"Node.js 服务器",cap4:"数据库",cap5:"健康诊断",cap6:"设置",feat_h:"功能",feat_sub:"单个文件，完整开发环境",f1h:"一窗搞定",f1p:"服务卡片含启动 / 停止 / 重启，一键启动全部，托盘。",f2h:"数据库",f2p:"MariaDB + PostgreSQL，内置 SQL 编辑器和 phpMyAdmin。",f3h:"本地 HTTPS",f3p:"一键获取受信任的 localhost SSL 证书（mkcert）。",f4h:"多站点",f4p:"添加站点，一键在浏览器中打开。",f5h:"代码编辑器",f5p:"PHP、HTML、CSS、JS、TS、Python 高亮，8 套主题，代码小地图。",f6h:"6 种语言",f6p:"Русский、English、Español、Deutsch、Français、中文——旗帜切换。",svc_h:"服务与端口",svc_sub:"端口可在 config/server.json 中修改",th1:"服务",th2:"用途",th3:"端口",p_apache:"Web 服务器（HTTP）",p_maria:"数据库（root，无密码）",p_php:"服务端语言，FastCGI",p_pg:"高级数据库",p_redis:"内存存储",p_nginx:"反向代理",p_node:"JS / TS 脚本",p_dock:"状态与容器",start_h:"快速入门",start_sub:"五步从下载到自己的站点",s1:"<b>下载并运行</b> <code>FarajaWebServer.exe</code>。首次启动勾选组件并点击“安装”。",s2:"<b>点击“全部启动”</b>——所有徽章变绿。",s3:"<b>在浏览器中打开</b> <code>http://127.0.0.1:8080/</code>——欢迎页。",s4:"<b>将项目放入</b> <code>www/</code>——通过 <code>http://127.0.0.1:8080/mysite/</code> 访问。",s5:"<b>数据库</b>——SQL 选项卡（root 无密码）或 phpMyAdmin。",faq_h:"问答",faq_sub:"常见情况",q1:"端口被占用？",a1:"错误会显示进程名和 PID。关闭该程序或修改端口。",q2:"PHP 页面空白？",a2:"确认 Apache 和 PHP 都在运行。",q3:"需要 HTTPS？",a3:"点击“设置 SSL”，重启 Nginx——https://localhost/ 无警告。",q4:"文件放哪里？",a4:"放在程序旁的 www/ 文件夹中。",q5:"免费吗？",a5:"是。Apache-2.0 许可证——自由使用。",don_h:"支持项目",don_sub:"如果 Faraja WebServer 对您有用，请支持它的开发。谢谢！",copy:"复制",copied:"已复制 ✓",foot:"Faraja WebServer · Apache-2.0 许可证",foot_dl:"下载",nav_pro:"PRO",btn_pro:"⬇ PRO 版本",pro_h:"PRO 版本",pro_sub:"PRO 构建的高级功能",pro1:"站点 → Nginx 块 + Apache 虚拟主机 + hosts + SSL。",pro2:"带路由和进程跟踪的项目服务器。",pro3h:"版本",pro3:"PHP 8.2–8.4、Node.js 20–24、Python 3.11–3.13。",pro4h:"数据库管理",pro4:"备份、用户、恢复。",pro5:"Compose、镜像、网络、卷。",pro6h:"负载",pro6:"独立进程测试、Auto、图表。"}};
 let cur="ru";
 try{cur=localStorage.getItem("fw_lang")||"ru";}catch(e){}
 if(!I18N[cur])cur="ru";
